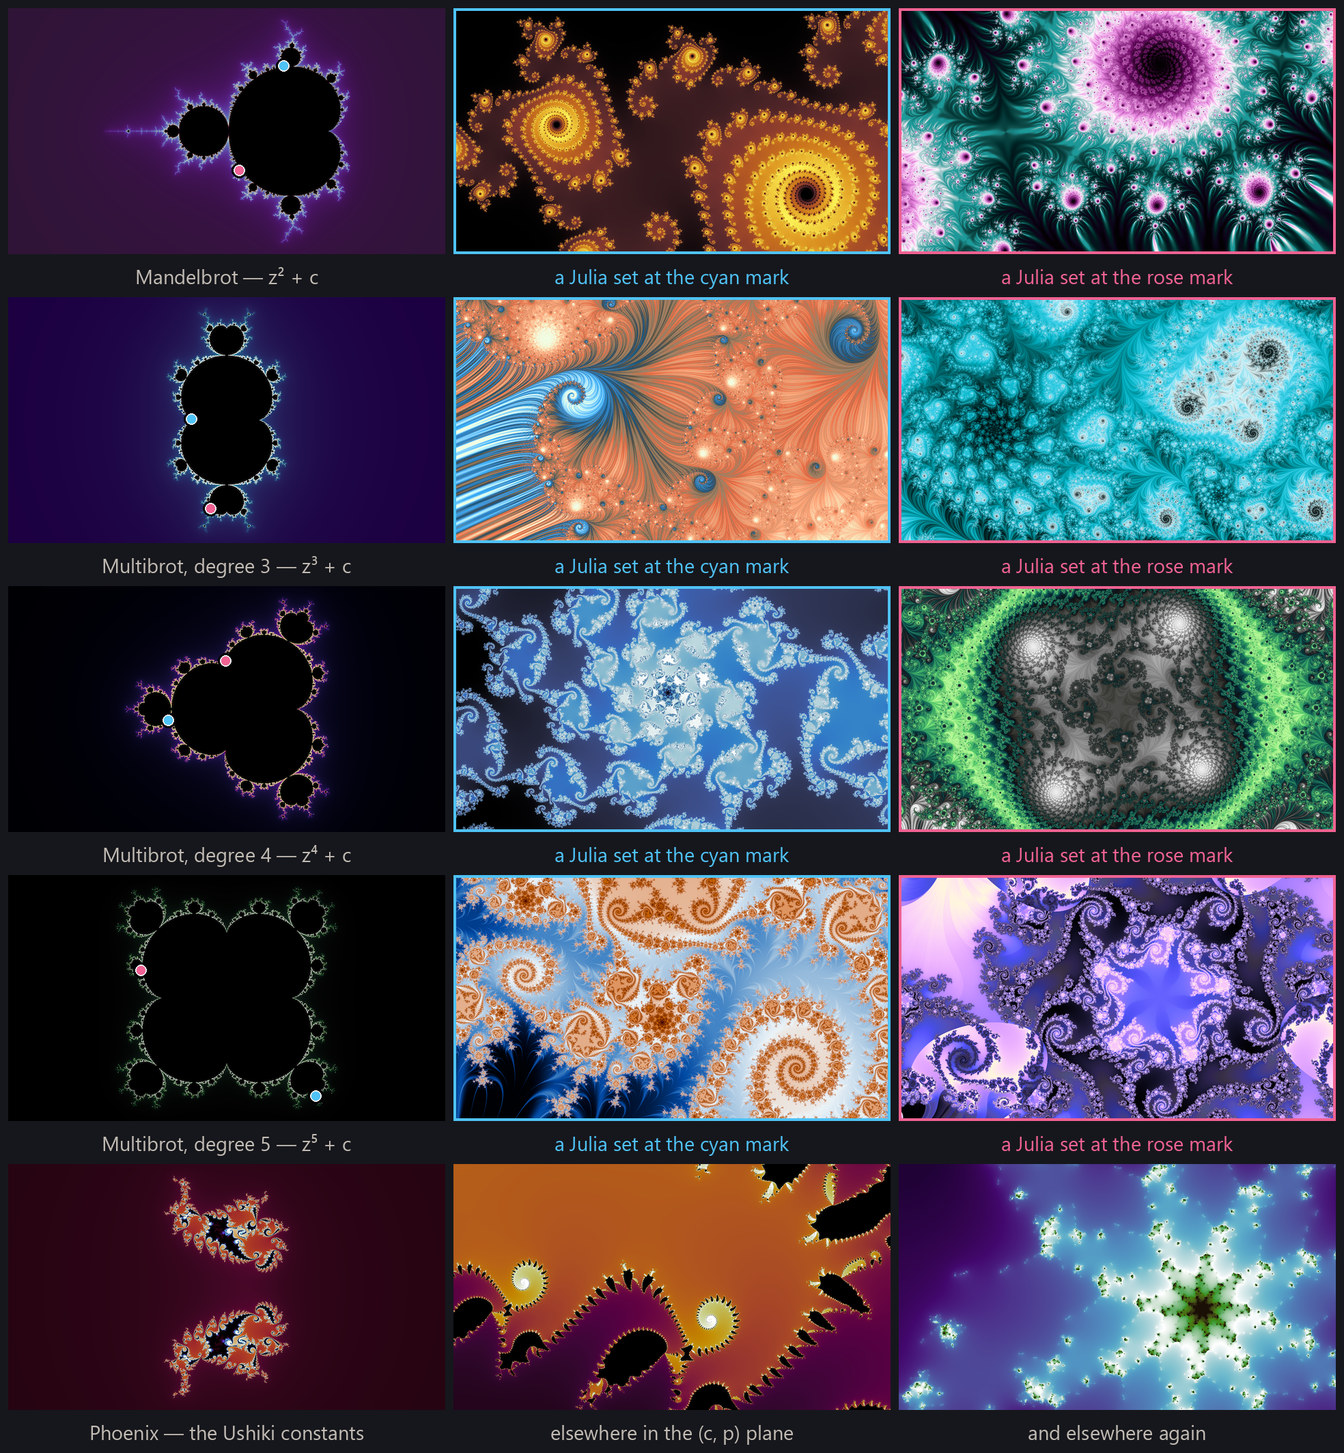
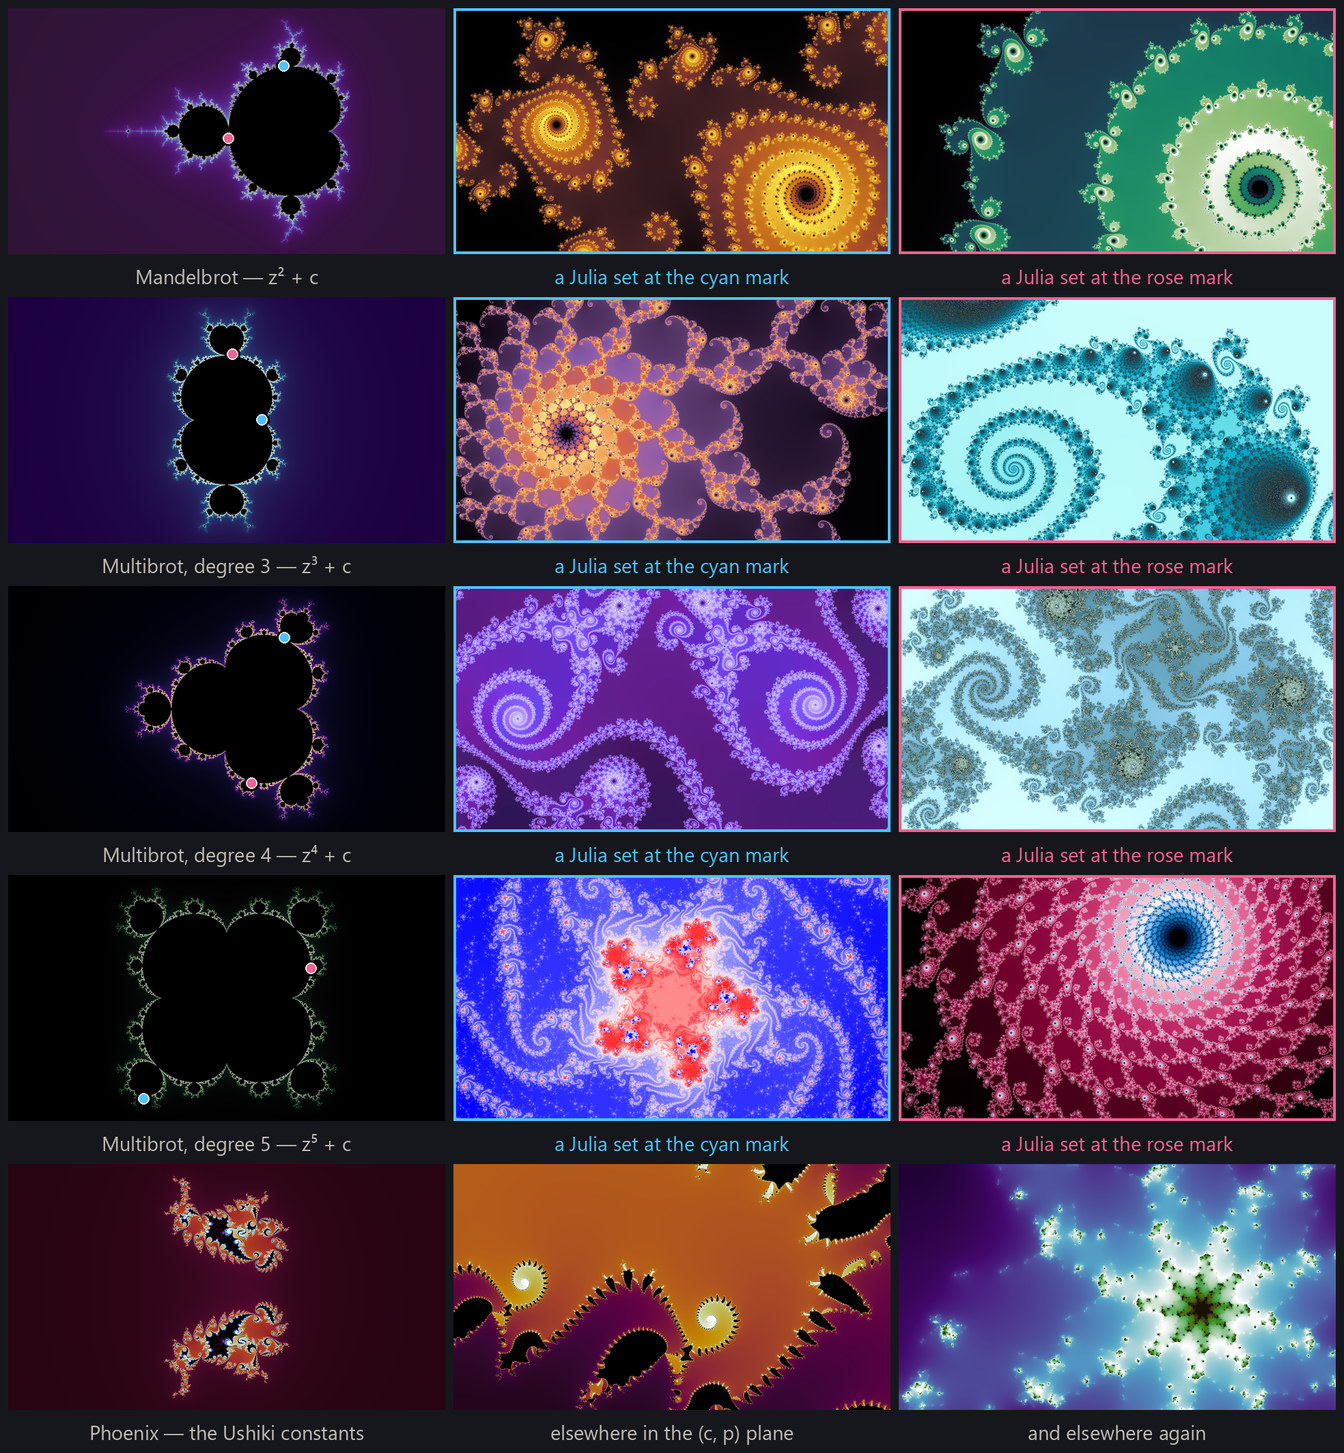
Draw every family in one rendering
escape-families is the first figure of the first section, and its eight
Julia panels were drawn in eight different modes — stripe, tia, threads,
itinerary and the rest. That puts a vocabulary in front of a reader four
sections before the article teaches any of it, and makes a row about the
shape a degree gives a set read as a catalogue of rendering instead. The
chooser now admits only seats drawn in smooth (Matt, 2026-09-02), and the
admission bar moves the other way in the same breath because it has to:
one mode cuts each partition's pool by about four fifths, so a seat needs
P(>=4) >= 0.5 rather than whatever it happened to score. The eight it
picked all score 0.87 or better anyway.

Nothing here overrides a recipe to get one rendering. The pool is narrowed
and each panel is still its seat's own coloring.

Two things the re-pick turned up. A `mine` run records neither the
autolevel curve nor whether the operator acted, where a depth run at least
records the fact — so `run_stamp` now reads that store too and answers
unrecoverable for it, because a record that does not say a picture was left
alone is not a record that says it was. And the chooser grew a seventh
rule, the only soft one: prefer seats the site can redraw at full size over
seats whose curve is lost and which have to be copied in at 640x360. Made a
rejection like the others it emptied multibrot4 — four seats, no admissible
hue pair — so it ranks pairs instead and takes the best tier that has
[…]

diff --git a/builder/picks.py b/builder/picks.py
@@ -66,14 +66,21 @@ tried and is not equivalent: the same frame redrawn at the seat's own regime der
 black point of 0.634 where the run stamped 0.595, so a re-measurement would quietly
 publish a different picture from the one the gallery shows.
 
-**Three runs in three stores, and only two of them keep the curve.** A candidate made by
-a `reframe_draw` run or a gallery `runs` pass has its whole stamp on that run's record.
-A **`depth` run writes down `acted` and nothing else** — no curve, no band — so a seat of
-one that the operator acted on cannot be redrawn correctly from any record this project
-keeps. That is a gap in the wallpaper project's own records and is not this repository's
-to close; `run_stamp` reports it as `acted_unrecoverable` and `seat_picture` is the way
-out, copying the seat's shipped picture rather than publishing a render known to be the
-wrong colour.
+**Four run stores, and only two of them keep the curve.** A candidate made by a
+`reframe_draw` run or a gallery `runs` pass has its whole stamp on that run's record. The
+other two do not:
+
+- a **`depth` run writes down `acted` and nothing else** — no curve, no band — so a seat
+  it acted on cannot be redrawn correctly from any record this project keeps;
+- a **`mine` run does not write down even that**, keeping only the reduced stamp its
+  ledger row already carries, so nothing says whether the operator acted at all. A record
+  that does not say a picture was left alone is not a record that says it was, and the
+  answer here is the same as if it had acted.
+
+That is a gap in the wallpaper project's own records and is not this repository's to
+close; `run_stamp` reports both as `acted_unrecoverable` and `seat_picture` is the way
+out, copying the seat's shipped picture rather than publishing a render known to be — or
+merely not known not to be — the wrong colour.
 """
 
 from __future__ import annotations
@@ -101,6 +108,7 @@ LEDGER = ("curation", "candidate_ledger", "rows.jsonl")
 #: and the ledger's `picture` is the only name shared across both stores.
 RUN_RECORDS = {
     "depth": ("sequence.jsonl", "key"),
+    "mine": ("rows.jsonl", "key"),
     "reframe_draw": ("attempts.jsonl", "picture"),
     "runs": ("candidates.jsonl", "picture"),
 }
@@ -368,7 +376,12 @@ def run_stamp(pick: Pick) -> Levelling:
                 row = json.loads(line)
                 if str(row.get("key")) != pick.key:
                     continue
-                # A depth run stamps the fact and drops the curve.
+                # A depth run stamps the fact and drops the curve; a mine run does not
+                # stamp even the fact, and a record that does not say the operator left a
+                # picture alone is not a record that says it did. Both are unrecoverable
+                # here, and only the depth one is unrecoverable *knowing* it acted.
+                if "acted" not in row:
+                    return Levelling(UNRECOVERABLE, where, None)
                 acted = bool(row.get("acted"))
                 return Levelling(UNRECOVERABLE if acted else UNTOUCHED, where, None)
             if filename not in line:
